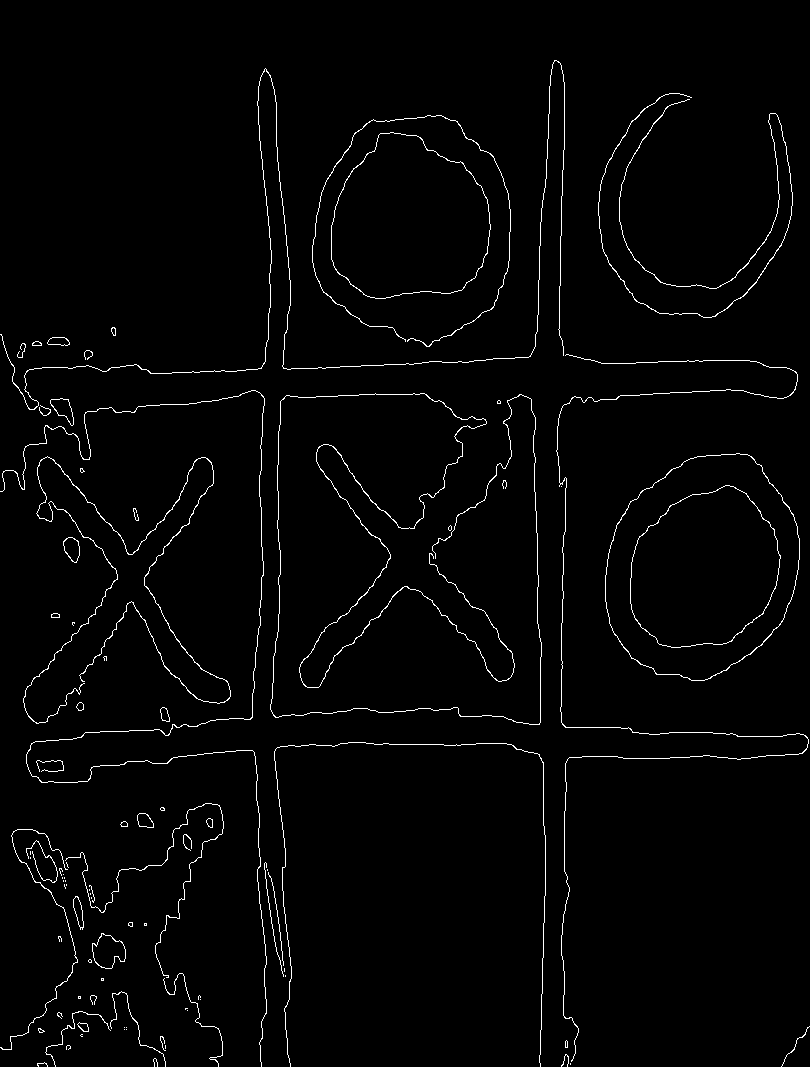
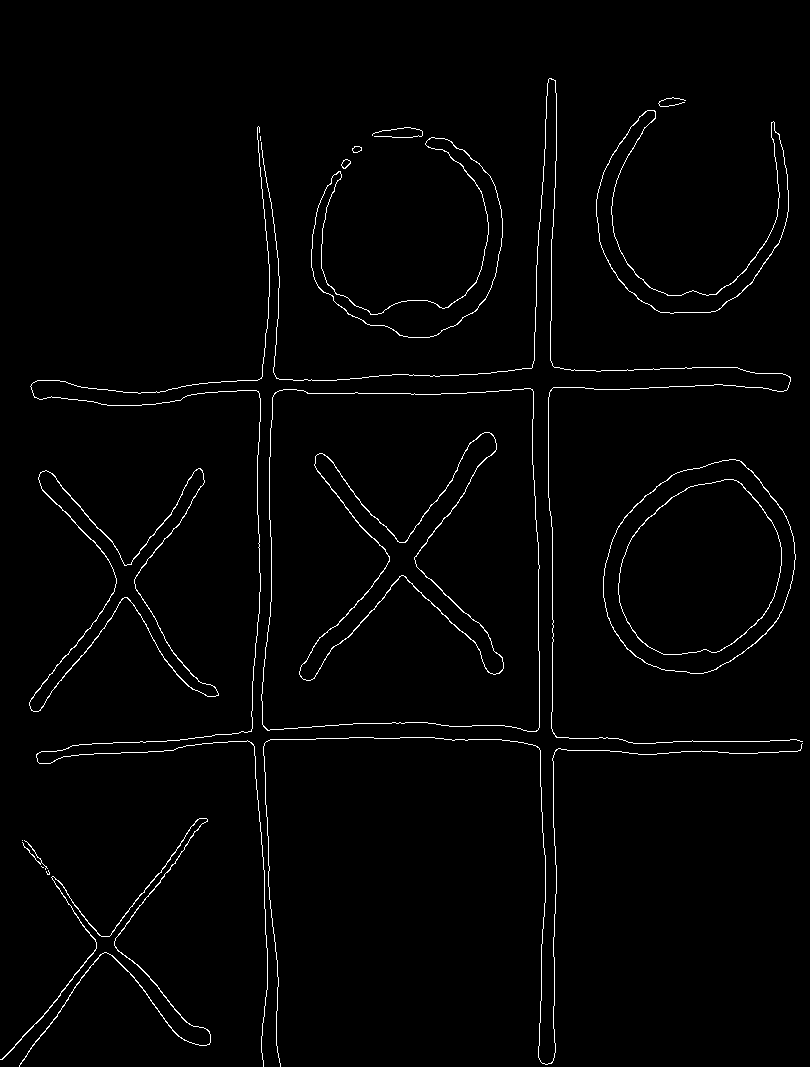
Switch from HSV to Grayscale for applying mask filter to drawing

diff --git a/board_perception/src/image_processor.cpp b/board_perception/src/image_processor.cpp
@@ -15,7 +15,7 @@ constexpr float BOARD_ASPECT_RATIO = BOARD_HEIGHT / BOARD_WIDTH;
 
 ImageProcessor::ImageProcessor(bool debug) : debug_(debug) {
     debug_output_dir_ = "/home/robert/ROS/Final/ros2_ws/src/tictactoe/board_perception/debug";
-    std::cout << "ImageProcessor init: debug=" << debug_ << ", dir=" << debug_output_dir_ << std::endl;
+    // std::cout << "ImageProcessor init: debug=" << debug_ << ", dir=" << debug_output_dir_ << std::endl;
 }
 
 void ImageProcessor::saveDebug(const std::string& name, const cv::Mat& img) {
@@ -24,18 +24,9 @@ void ImageProcessor::saveDebug(const std::string& name, const cv::Mat& img) {
     if (img.empty())
         return;
 
-    // create directory if missing
     std::filesystem::create_directories(debug_output_dir_);
-
-    // zero-padded counter
-    // int id = debug_counter_.load();
-    // char prefix[16];
-    // snprintf(prefix, sizeof(prefix), "%04d_", id);
-
     std::string filename = debug_output_dir_ + "/" + name + ".png";
-
     cv::imwrite(filename, img);
-
     std::cout << "Saved debug image: " << filename << std::endl;
 }
 
@@ -122,7 +113,7 @@ std::array<int, 9> ImageProcessor::process(const cv::Mat& frame) {
     for (auto& c : contours) {
         int area = contourArea(c);
         if (area > 10000 && area < minContourArea) {
-            cout << "Contour area: " << area << endl;
+            // cout << "Contour area: " << area << endl;
             minContourArea = area;
             inner          = c;
         }
@@ -186,10 +177,10 @@ std::array<int, 9> ImageProcessor::process(const cv::Mat& frame) {
     saveDebug("board", board);
 
     // --------------------------------------------------------
-    // 6. Detect drawing
+    // 6. Convert to grayscale to detect drawing
     // --------------------------------------------------------
-    cvtColor(board, hsv, COLOR_BGR2HSV);
-    inRange(hsv, Scalar(30, 0, 130), Scalar(120, 120, 200), mask);
+    cvtColor(board, board, COLOR_BGR2GRAY);
+    inRange(board, Scalar(130), Scalar(255), mask);
     saveDebug("mask_inside_board", mask);
 
     Mat edges;
@@ -200,7 +191,7 @@ std::array<int, 9> ImageProcessor::process(const cv::Mat& frame) {
     // 7. Hough Lines
     // --------------------------------------------------------
     vector<Vec4i> lines;
-    HoughLinesP(edges, lines, 1, CV_PI / 180, 10, 150, 50);
+    HoughLinesP(edges, lines, 1, CV_PI / 180, 10, 0.15 * BOARD_IMAGE_WIDTH, 0.05 * BOARD_IMAGE_WIDTH);
 
     if (lines.empty()) {
         cout << "No lines detected!" << endl;
@@ -208,21 +199,22 @@ std::array<int, 9> ImageProcessor::process(const cv::Mat& frame) {
     }
 
     vector<Vec4i> vertical, horizontal;
+    int pixel_threshold = int(0.02 * BOARD_IMAGE_WIDTH);
     for (auto& L : lines) {
         int dx = abs(L[0] - L[2]);
         int dy = abs(L[1] - L[3]);
 
-        if (dx < 30)
+        if (dx < pixel_threshold)
             vertical.push_back(L);
-        else if (dy < 30)
+        else if (dy < pixel_threshold)
             horizontal.push_back(L);
     }
 
     Mat lineDisplay = board.clone();
     for (auto& L : vertical)
-        line(lineDisplay, Point(L[0], L[1]), Point(L[2], L[3]), Scalar(0, 0, 255), 2);
+        line(lineDisplay, Point(L[0], L[1]), Point(L[2], L[3]), Scalar(0), 2);
     for (auto& L : horizontal)
-        line(lineDisplay, Point(L[0], L[1]), Point(L[2], L[3]), Scalar(255, 0, 0), 2);
+        line(lineDisplay, Point(L[0], L[1]), Point(L[2], L[3]), Scalar(255), 2);
 
     saveDebug("detected_lines", lineDisplay);
 
@@ -246,9 +238,9 @@ std::array<int, 9> ImageProcessor::process(const cv::Mat& frame) {
 
     Mat edgeDisplay = board.clone();
     for (auto& xe : xEdges)
-        line(edgeDisplay, Point(xe, 0), Point(xe, board.rows - 1), Scalar(0, 255, 0), 2);
+        line(edgeDisplay, Point(xe, 0), Point(xe, board.rows - 1), Scalar(0), 2);
     for (auto& ye : yEdges)
-        line(edgeDisplay, Point(0, ye), Point(board.cols - 1, ye), Scalar(0, 255, 0), 2);
+        line(edgeDisplay, Point(0, ye), Point(board.cols - 1, ye), Scalar(0), 2);
 
     saveDebug("detected_edges", edgeDisplay);
 
@@ -284,9 +276,9 @@ std::array<int, 9> ImageProcessor::process(const cv::Mat& frame) {
     Mat cellDisplay = board.clone();
     int idx         = 0;
     for (auto& c : cellCorners) {
-        rectangle(cellDisplay, Point(c[0], c[1]), Point(c[2], c[3]), Scalar(255, 0, 0), 2);
+        rectangle(cellDisplay, Point(c[0], c[1]), Point(c[2], c[3]), Scalar(255), 2);
         putText(cellDisplay, to_string(idx), Point((c[0] + c[2]) / 2 - 10, (c[1] + c[3]) / 2 + 10),
-                FONT_HERSHEY_SIMPLEX, 1, Scalar(255, 0, 0), 2);
+                FONT_HERSHEY_SIMPLEX, 1, Scalar(255), 2);
         idx++;
     }
     saveDebug("cells", cellDisplay);
@@ -313,14 +305,14 @@ std::array<int, 9> ImageProcessor::process(const cv::Mat& frame) {
 
         Mat cellEdges = edges(cellRect).clone();
         vector<Vec4i> lines;
-        HoughLinesP(cellEdges, lines, 1, CV_PI / 180, 50, 50, 10);
+        HoughLinesP(cellEdges, lines, 1, CV_PI / 180, 50, 0.05 * BOARD_IMAGE_WIDTH, 0.015 * BOARD_IMAGE_WIDTH);
 
         bool foundX = false;
         for (auto& L : lines) {
             double angle = abs(atan2(L[3] - L[1], L[2] - L[0])) * 180.0 / CV_PI;
             if ((angle > 25 && angle < 75) || (angle > 105 && angle < 155)) {
                 line(board, Point(L[0] + corners[0], L[1] + corners[1]), Point(L[2] + corners[0], L[3] + corners[1]),
-                     Scalar(255, 0, 0), 3);
+                     Scalar(255), 3);
                 foundX = true;
                 break;
             }
@@ -332,16 +324,14 @@ std::array<int, 9> ImageProcessor::process(const cv::Mat& frame) {
         }
 
         // O detection
-        Mat gray;
-        cvtColor(cells[i], gray, COLOR_BGR2GRAY);
-        GaussianBlur(gray, gray, Size(5, 5), 0);
-
+        GaussianBlur(cells[i], cells[i], Size(5, 5), 0);
         vector<Vec3f> circles;
-        HoughCircles(gray, circles, HOUGH_GRADIENT, 1, 200, 10, 50, 50, 300);
+        HoughCircles(cells[i], circles, HOUGH_GRADIENT, 1, 200, 10, 50, 0.05 * BOARD_IMAGE_WIDTH,
+                     0.33 * BOARD_IMAGE_WIDTH);
 
         if (!circles.empty()) {
             for (auto& c : circles)
-                circle(board, Point(c[0] + corners[0], c[1] + corners[1]), c[2], Scalar(0, 255, 0), 3);
+                circle(board, Point(c[0] + corners[0], c[1] + corners[1]), c[2], Scalar(0), 3);
             result[i] = 0;
             continue;
         }
